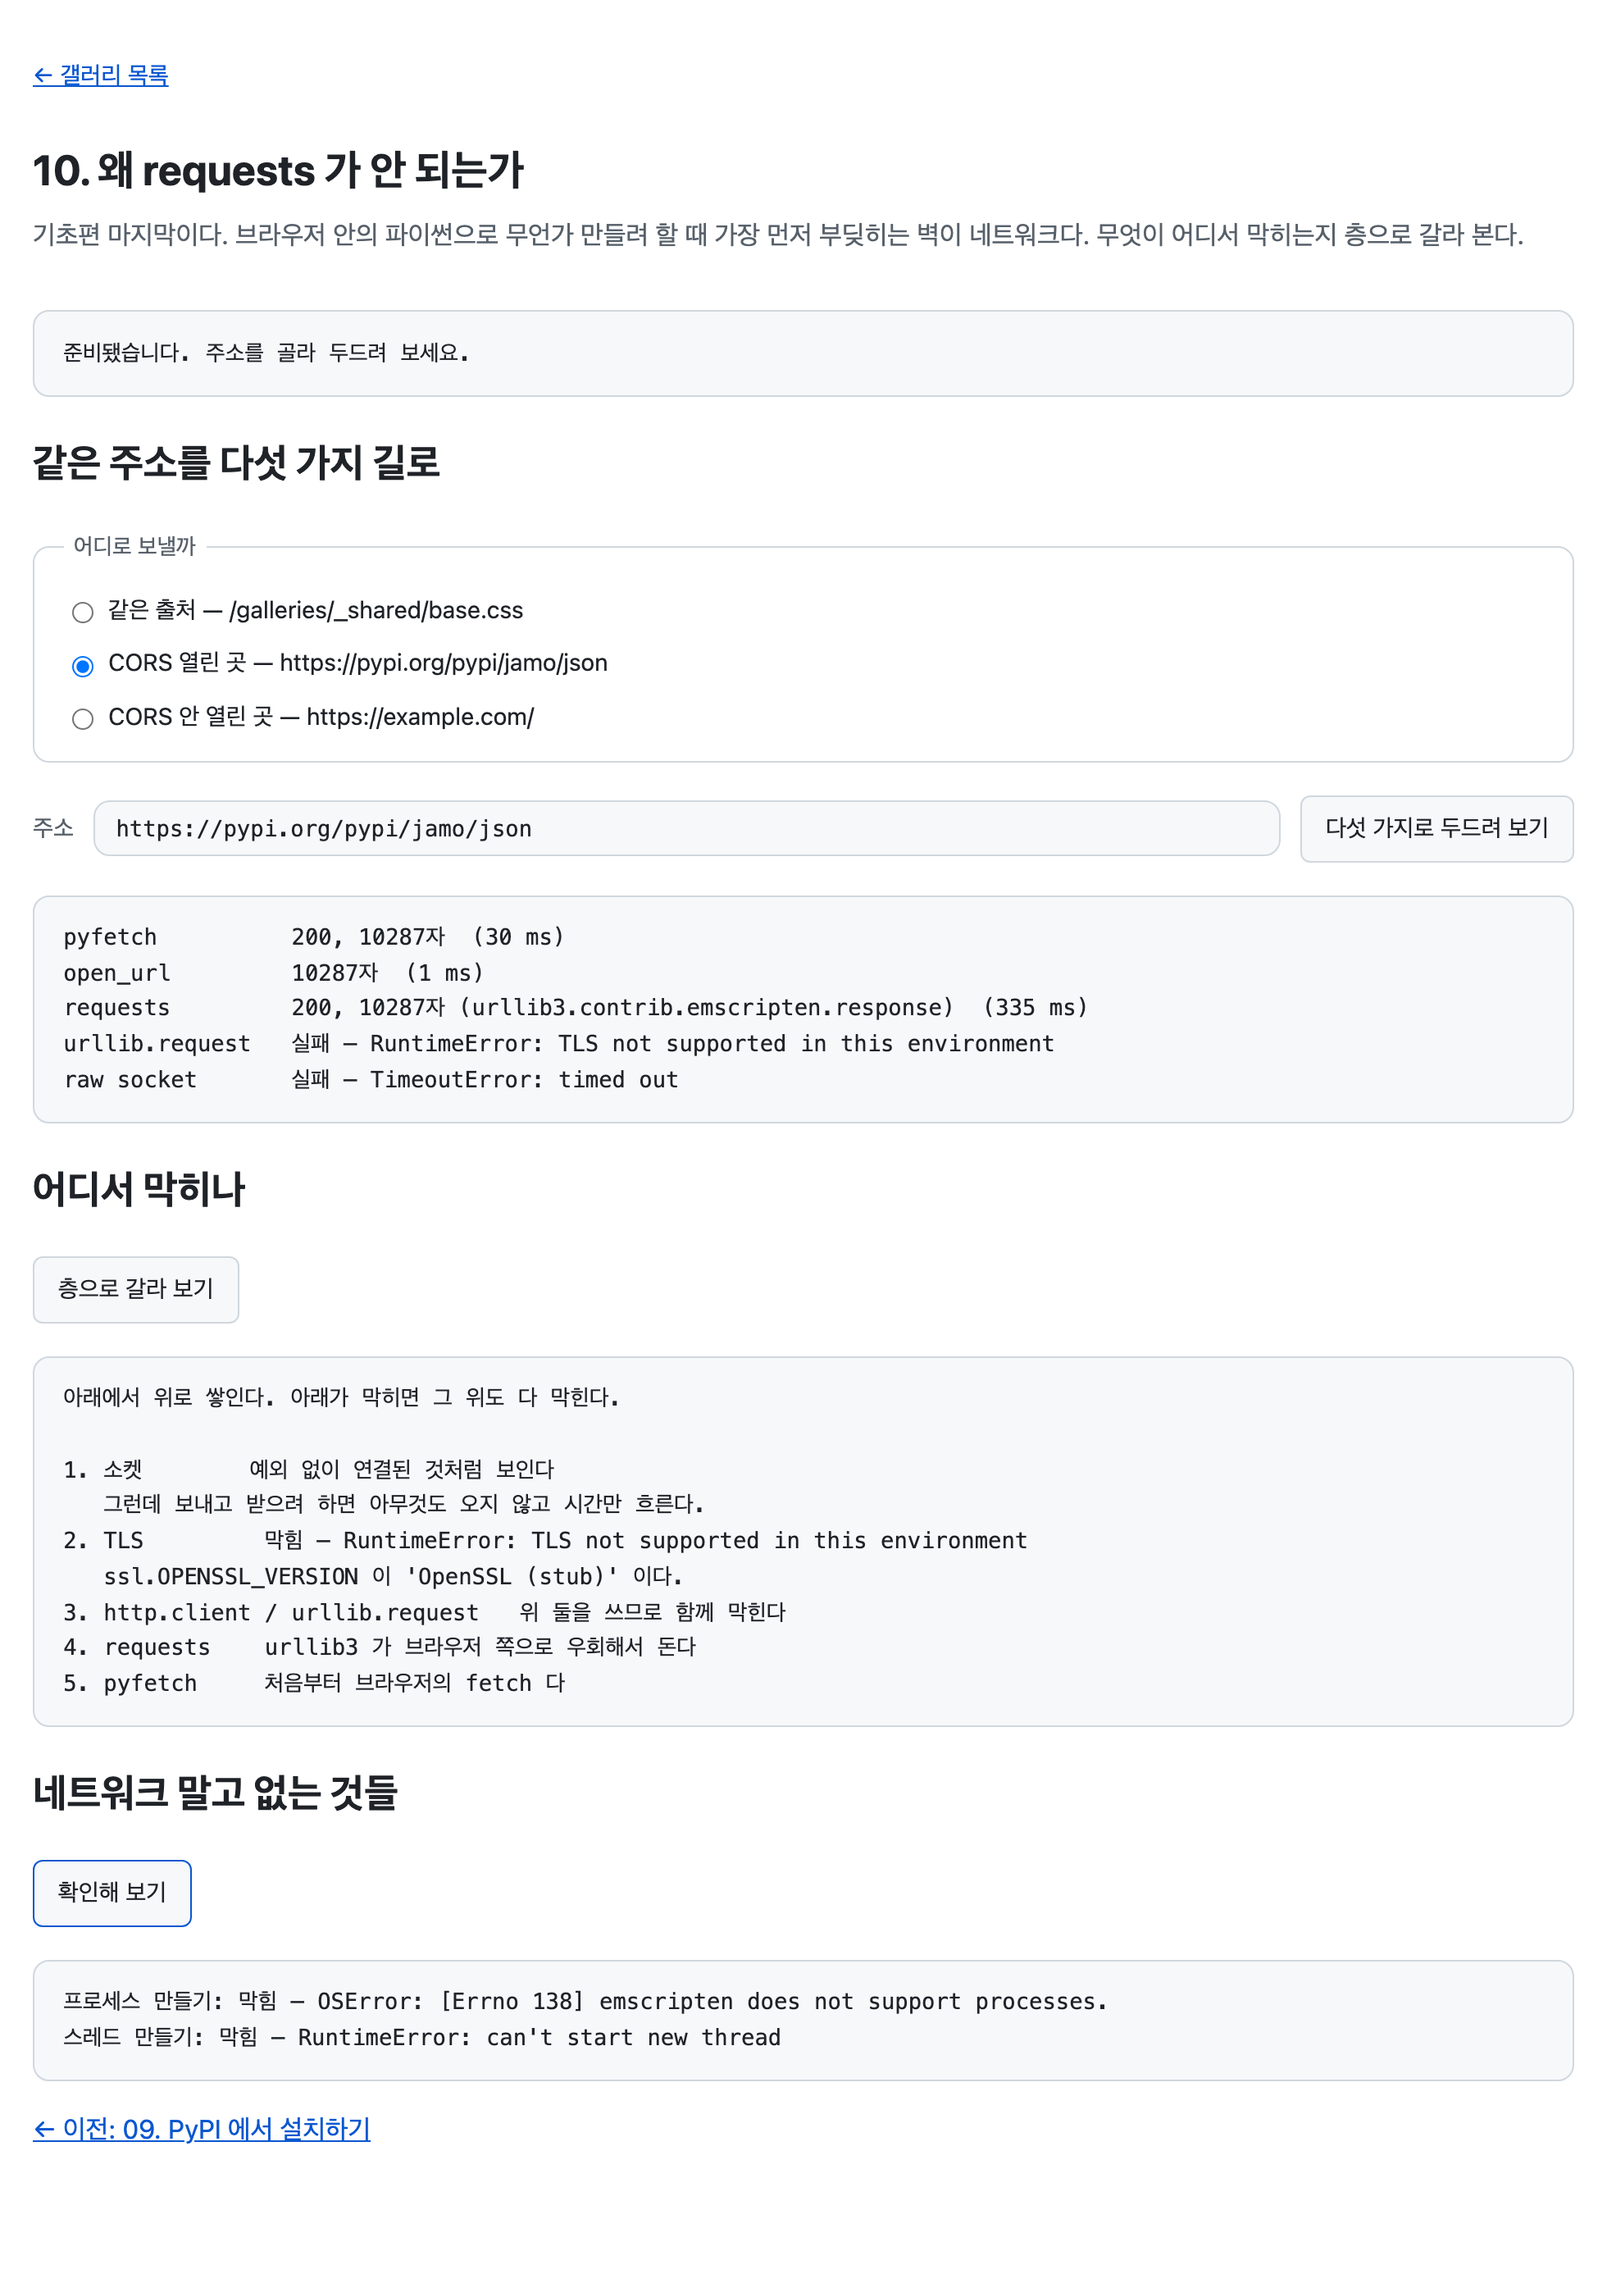
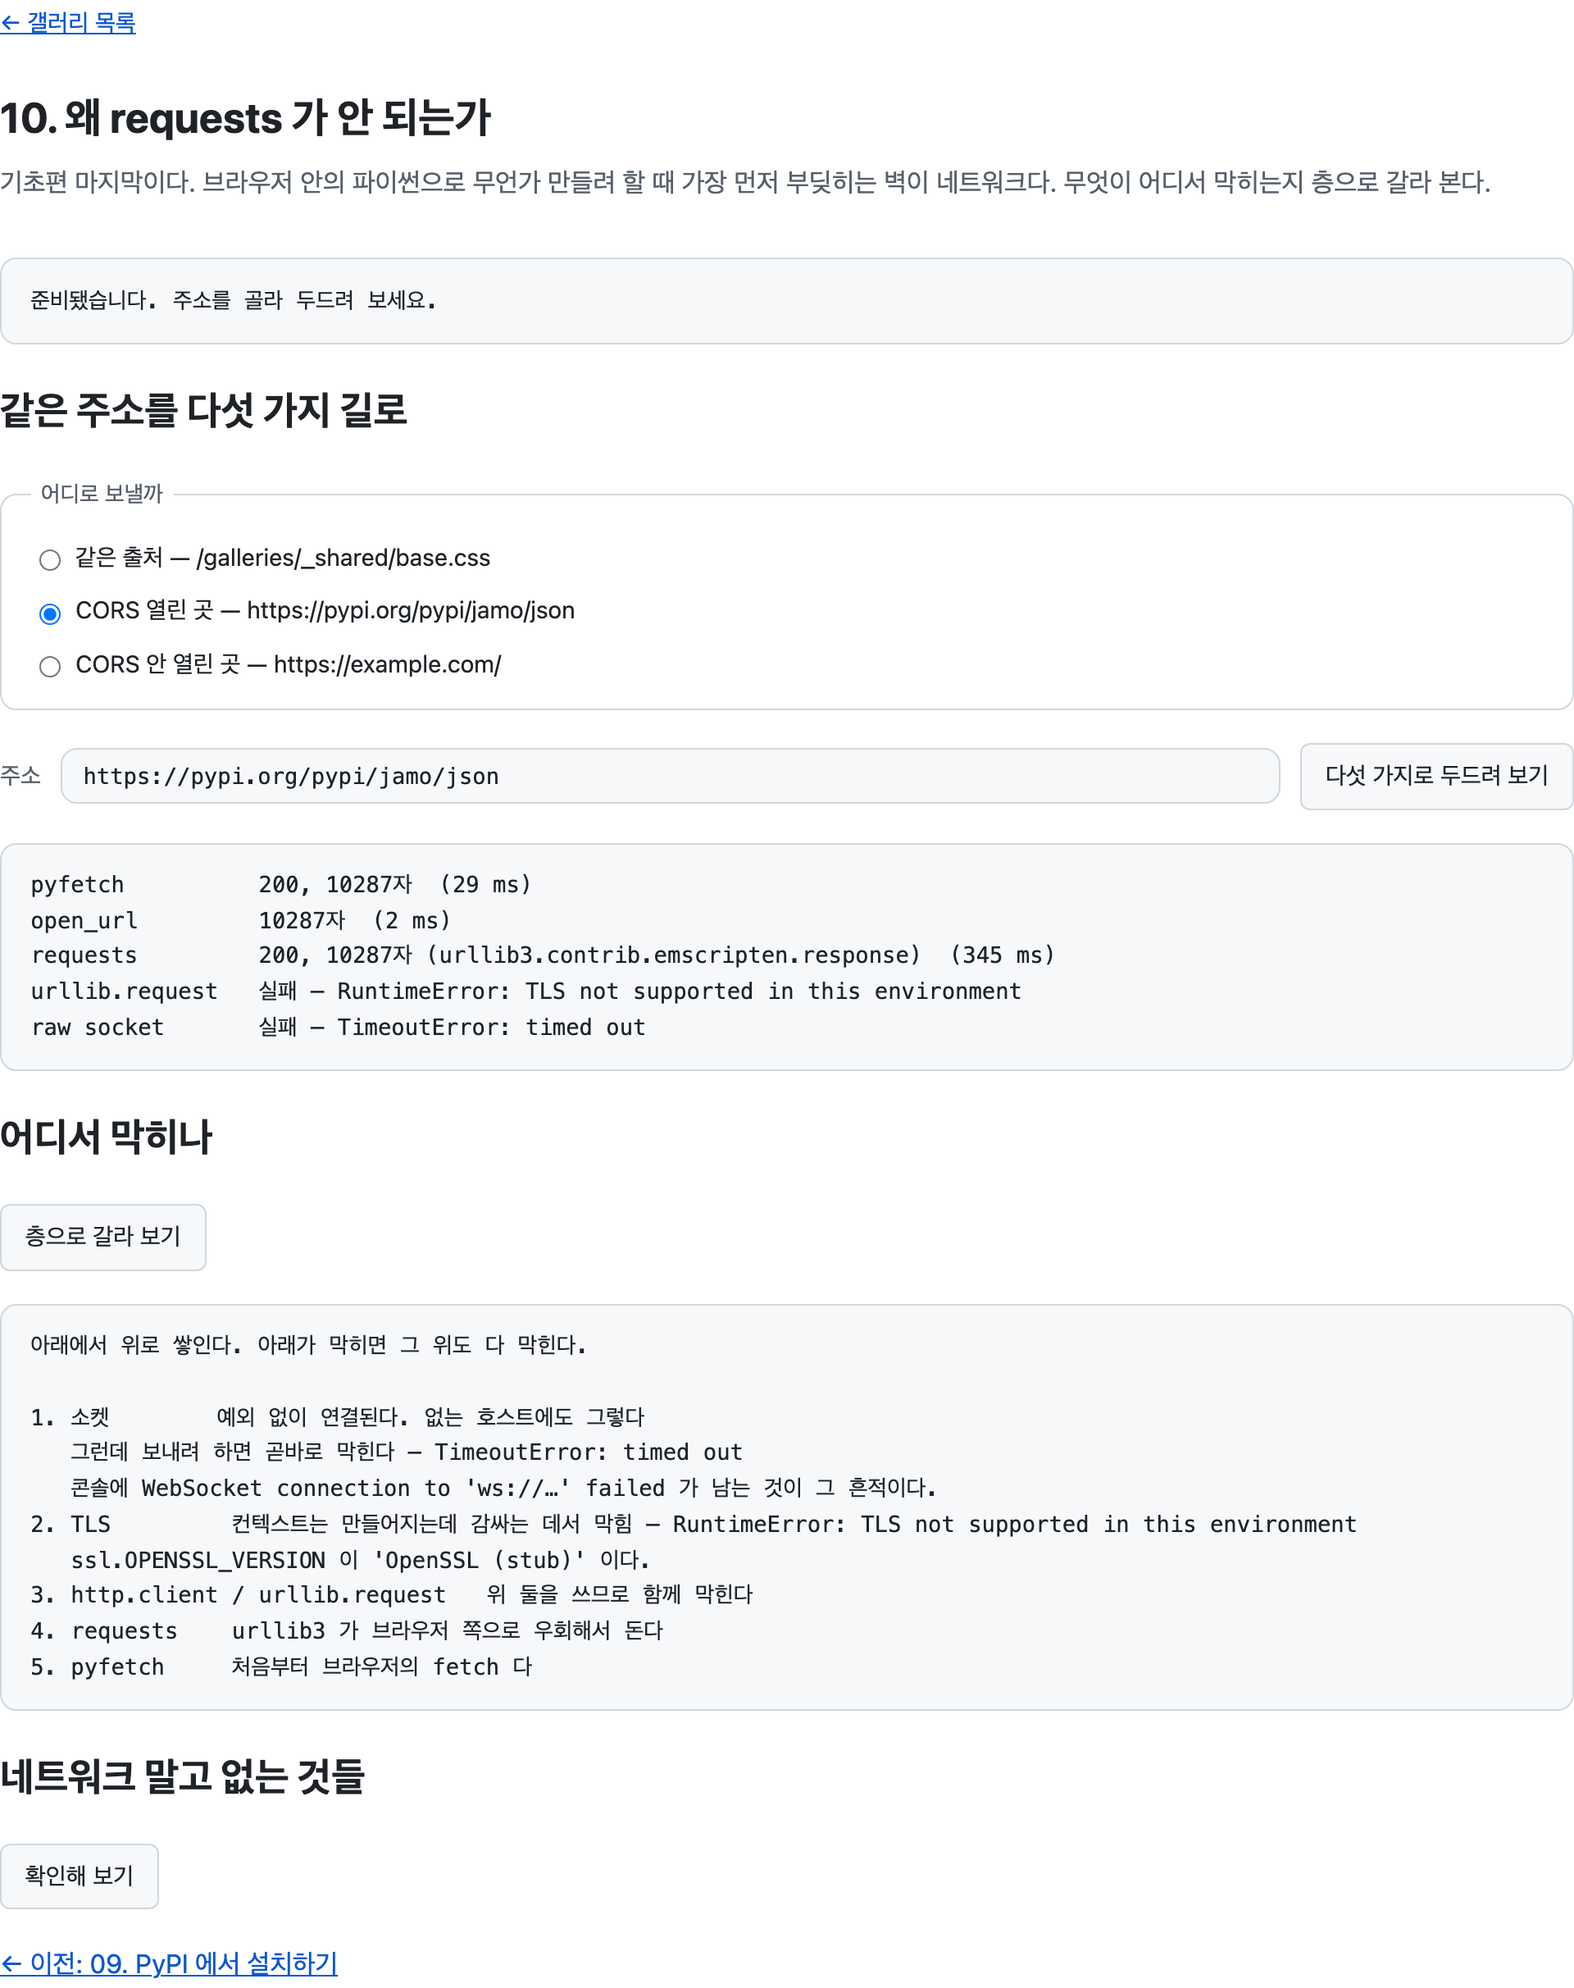
fix(10-http-and-cors): 소켓이 막히는 방식을 실측대로 고친다
소켓이 "되는 척하다가 멈춘다" 고 적었는데 실제로는 멈추지 않는다. 타임아웃을 걸어 두면 sendall 이 0ms 만에 TimeoutError 를 내고, 안 걸어 두면 recv 가 0ms 만에 BlockingIOError 를 낸다. recv 까지 가지도 못하는 경우가 대부분이다.

connect 가 예외 없이 성공하는 진짜 이유도 함께 적는다. Emscripten 이 소켓 자리에 WebSocket 을 열어 주기 때문이고, 콘솔의 WebSocket connection to 'ws://…' failed 가 그 흔적이다. 없는 호스트에도 connect 가 성공하는 것이 이 설명을 뒷받침한다.

try_socket 의 호스트 파싱도 고친다. url.split("//") 방식은 상대 경로에서 조용히 example.com 으로 떨어져서, 표의 "같은 출처 / raw socket" 칸이 라벨과 다른 곳을 두드린 결과를 보여 주고 있었다. urlparse 로 바꾸고 스킴 없는 주소는 js.location 으로 채운다. 못 뽑으면 대체값을 쓰지 않고 ValueError 를 낸다.

곁들여 고친 것들. 두드리는 동안 세 버튼을 모두 잠근다. 동기 통로의 timeout 을 10초에서 3초로 줄이고 화면이 그동안 멈춘다는 사실을 README 에 적는다. ssl 스텁의 근거를 314.0.0 릴리스 노트(3MB 절약)와 _ssl.py 의 docstring 으로 밝힌다. layers() 에서 컨텍스트 생성과 wrap 을 갈라 잡아 어디서 막히는지 구분해 적는다. requests 소요 시간이 첫 호출에만 300ms 대인 것을 설명한다.

diff --git a/galleries/10-http-and-cors/src/main.js b/galleries/10-http-and-cors/src/main.js
@@ -39,7 +39,9 @@ async function start() {
   }
 
   try {
-    const source = await fetch('src/main.py').then((response) => response.text());
+    const response = await fetch('src/main.py');
+    if (!response.ok) throw new Error(`src/main.py 를 받지 못했습니다 (${response.status})`);
+    const source = await response.text();
     // 이 손잡이는 페이지가 사는 동안 계속 쓰므로 일부러 안 놓는다.
     pyGlobals = pyodide.runPython(`${source}\n\nglobals()`);
   } finally {
@@ -49,6 +51,7 @@ async function start() {
 
   buildTargets();
   probeButton.addEventListener('click', () => run(probeResult, 'probe', urlInput.value));
+  // 세 버튼이 같은 런타임을 쓰고 결과가 겹칠 수 있어서 함께 잠근다.
   layersButton.addEventListener('click', () => run(layersResult, 'layers'));
   missingButton.addEventListener('click', () => run(missingResult, 'missing'));
 
@@ -88,9 +91,9 @@ function buildTargets() {
 
 /** 파이썬 함수를 부르고 결과를 상자에 적는다. 비동기든 아니든 같은 모양으로 다룬다. */
 async function run(box, name, ...args) {
-  box.replaceChildren();
   box.textContent = '두드려 보는 중입니다…';
-  probeButton.disabled = true;
+  const buttons = [probeButton, layersButton, missingButton];
+  for (const button of buttons) button.disabled = true;
 
   const fn = pyGlobals.get(name);
   try {
@@ -100,6 +103,6 @@ async function run(box, name, ...args) {
     renderPythonError(box, error);
   } finally {
     fn.destroy();
-    probeButton.disabled = false;
+    for (const button of buttons) button.disabled = false;
   }
 }

diff --git a/galleries/10-http-and-cors/src/main.py b/galleries/10-http-and-cors/src/main.py
@@ -4,7 +4,9 @@ import socket
 import ssl
 import time
 from collections.abc import Callable
+from urllib.parse import urlparse
 
+import js
 from pyodide.http import open_url, pyfetch
 
 TARGETS = {
@@ -15,7 +17,20 @@ TARGETS = {
 
 
 def brief(exc: Exception) -> str:
-    return f"{type(exc).__name__}: {str(exc).partition(chr(10))[0][:110]}"
+    return f"{type(exc).__name__}: {str(exc).partition(chr(0x0A))[0][:110]}"
+
+
+def host_and_port(url: str) -> tuple[str, int]:
+    """주소에서 호스트와 포트를 뽑는다. 상대 경로면 지금 페이지 기준으로 채운다.
+
+    조용한 대체값을 두지 않는다. 못 뽑으면 그렇다고 말하는 편이, 엉뚱한 데를 두드려 놓고
+    그 결과를 이 주소의 결과인 양 보여 주는 것보다 낫다.
+    """
+    text = url if "//" in url else f"//{js.location.host}{url}"
+    parsed = urlparse(text, scheme=js.location.protocol.rstrip(":"))
+    if not parsed.hostname:
+        raise ValueError(f"주소에서 호스트를 못 뽑았습니다: {url}")
+    return parsed.hostname, parsed.port or (443 if parsed.scheme == "https" else 80)
 
 
 async def try_pyfetch(url: str) -> str:
@@ -33,7 +48,7 @@ def try_requests(url: str) -> str:
     """평범한 requests. 314 에서는 urllib3 가 브라우저 쪽으로 우회해 준다."""
     import requests
 
-    response = requests.get(url, timeout=10)
+    response = requests.get(url, timeout=3)
     return f"{response.status_code}, {len(response.text)}자 ({type(response.raw).__module__})"
 
 
@@ -41,22 +56,20 @@ def try_urllib(url: str) -> str:
     """표준 라이브러리. 소켓과 TLS 를 거치려 한다."""
     import urllib.request
 
-    with urllib.request.urlopen(url, timeout=10) as response:
+    with urllib.request.urlopen(url, timeout=3) as response:
         return f"{response.status}"
 
 
 def try_socket(url: str) -> str:
     """가장 낮은 층. 여기가 진짜 벽이다."""
-    host = url.split("//")[-1].split("/")[0] or "example.com"
-    sock = socket.socket(socket.AF_INET, socket.SOCK_STREAM)
-    sock.settimeout(3)
-    try:
-        sock.connect((host, 80))
+    host, port = host_and_port(url)
+    with socket.socket(socket.AF_INET, socket.SOCK_STREAM) as sock:
+        sock.settimeout(3)
+        # connect 는 예외를 내지 않는다. 뒤에서 WebSocket 을 열고 그것을 소켓인 척한다.
+        # 주고받으려는 순간에야 막힌다.
+        sock.connect((host, port))
         sock.sendall(f"GET / HTTP/1.0\r\nHost: {host}\r\n\r\n".encode())
-        data = sock.recv(64)
-        return f"{len(data)}바이트 받음"
-    finally:
-        sock.close()
+        return f"{len(sock.recv(64))}바이트 받음"
 
 
 SYNC_WAYS: dict[str, Callable[[str], str]] = {
@@ -68,7 +81,7 @@ SYNC_WAYS: dict[str, Callable[[str], str]] = {
 
 
 async def probe(url: str) -> str:
-    """네 가지 길로 같은 주소를 두드려 보고 결과를 나란히 적는다."""
+    """다섯 가지 길로 같은 주소를 두드려 보고 결과를 나란히 적는다."""
     lines = []
 
     started = time.monotonic()
@@ -97,25 +110,32 @@ def layers() -> str:
     """무엇이 어디서 막히는지 층으로 정리한다."""
     lines = ["아래에서 위로 쌓인다. 아래가 막히면 그 위도 다 막힌다.", ""]
 
-    sock = socket.socket(socket.AF_INET, socket.SOCK_STREAM)
-    sock.settimeout(2)
-    try:
-        sock.connect(("example.com", 80))
-        made = "예외 없이 연결된 것처럼 보인다"
-    except Exception as exc:
-        made = f"막힘 — {brief(exc)}"
-    finally:
-        sock.close()
+    with socket.socket(socket.AF_INET, socket.SOCK_STREAM) as sock:
+        sock.settimeout(2)
+        try:
+            sock.connect(("example.com", 80))
+            made = "예외 없이 연결된다. 없는 호스트에도 그렇다"
+        except Exception as exc:
+            made = f"막힘 — {brief(exc)}"
+        try:
+            sock.sendall(b"GET / HTTP/1.0\r\n\r\n")
+            sent = "예외 없음"
+        except Exception as exc:
+            sent = brief(exc)
     lines.append(f"1. 소켓        {made}")
-    lines.append("   그런데 보내고 받으려 하면 아무것도 오지 않고 시간만 흐른다.")
+    lines.append(f"   그런데 보내려 하면 곧바로 막힌다 — {sent}")
+    lines.append(
+        "   콘솔에 WebSocket connection to 'ws://…' failed 가 남는 것이 그 흔적이다."
+    )
 
+    # 컨텍스트 만들기와 감싸기를 갈라 잡는다. 한꺼번에 잡으면 어디서 막혔는지 못 적는다.
+    context = ssl.create_default_context()
     try:
-        context = ssl.create_default_context()
-        raw = socket.socket(socket.AF_INET, socket.SOCK_STREAM)
-        context.wrap_socket(raw, server_hostname="example.com")
+        with socket.socket(socket.AF_INET, socket.SOCK_STREAM) as raw:
+            context.wrap_socket(raw, server_hostname="example.com")
         tls = "된다"
     except Exception as exc:
-        tls = f"막힘 — {brief(exc)}"
+        tls = f"컨텍스트는 만들어지는데 감싸는 데서 막힘 — {brief(exc)}"
     lines.append(f"2. TLS         {tls}")
     lines.append(f"   ssl.OPENSSL_VERSION 이 {ssl.OPENSSL_VERSION!r} 이다.")
 
